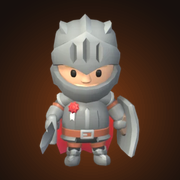
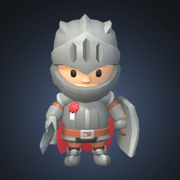
Build 2780c1a72e76

diff --git a/index.html b/index.html
@@ -1,4 +1,4 @@
-<!doctype html><html lang="en"><head><meta charset="utf-8"><meta name="viewport" content="width=device-width,initial-scale=1,viewport-fit=cover,maximum-scale=1,user-scalable=no"><meta name="apple-mobile-web-app-capable" content="yes"><meta name="mobile-web-app-capable" content="yes"><meta name="apple-mobile-web-app-status-bar-style" content="black-translucent"><meta name="apple-mobile-web-app-title" content="Hearthguard"><meta name="theme-color" content="#17100d"><meta name="robots" content="noindex"><link rel="manifest" href="manifest.webmanifest"><link rel="apple-touch-icon" href="icon-180.png"><style>:root{padding-top:env(safe-area-inset-top,0px);padding-bottom:env(safe-area-inset-bottom,0px)}body{margin:0}img{max-width:100%}[hidden]{display:none!important}</style></head><body><script>window.HG_CLOUD="https://hearthguard-cloud.shoguns-gate-family.workers.dev"</script><script>//---------------------------------------------------------------------
+<!doctype html><html lang="en"><head><meta charset="utf-8"><meta name="viewport" content="width=device-width,initial-scale=1,viewport-fit=cover,maximum-scale=1,user-scalable=no"><meta name="apple-mobile-web-app-capable" content="yes"><meta name="mobile-web-app-capable" content="yes"><meta name="apple-mobile-web-app-status-bar-style" content="black-translucent"><meta name="apple-mobile-web-app-title" content="Hearthguard"><meta name="theme-color" content="#14171b"><meta name="robots" content="noindex"><link rel="manifest" href="manifest.webmanifest"><link rel="apple-touch-icon" href="icon-180.png"><style>:root{padding-top:env(safe-area-inset-top,0px);padding-bottom:env(safe-area-inset-bottom,0px)}body{margin:0}img{max-width:100%}[hidden]{display:none!important}</style></head><body><script>window.HG_CLOUD="https://hearthguard-cloud.shoguns-gate-family.workers.dev"</script><script>//---------------------------------------------------------------------
 //
 // QR Code Generator for JavaScript
 //
@@ -2299,11 +2299,11 @@ var qrcode = function() {
 <meta name="claude:viewport-fit-sides" content="cover">
 <link rel="stylesheet" href="https://fonts.googleapis.com/css2?family=Grenze+Gotisch:wght@500;700&family=Nunito:wght@400;600;800&display=swap">
 <style>
-/* Layout: one-screen phone-first game column; a painted battle stage with rendered 3D characters on top, chunky wooden buttons below. Single dark fireside theme by choice. */
+/* Layout: one-screen phone-first game column; a painted battle stage with rendered 3D characters on top, chunky wooden buttons below. Single dark castle-stone theme by choice (slate greys, heraldic blue and gold). */
 :root{
   color-scheme:dark;
-  --night:#17100d; --wood:#2a1c16; --wood2:#3a281f; --line:#5a4032;
-  --parch:#f3e4c8; --dim:#b89f85; --ember:#ec8a3c; --gold:#f2c35b;
+  --night:#14171b; --wood:#252a30; --wood2:#333a43; --line:#5b6672;
+  --parch:#e9edf1; --dim:#9ba6b2; --ember:#ec8a3c; --gold:#e8c45e;
   --moss:#86b56a; --blood:#d6553f; --frost:#7fb7d9;
   --display:"Grenze Gotisch",Georgia,"Times New Roman",serif;
   --ui:"Nunito","Trebuchet MS",Verdana,sans-serif;
@@ -2311,10 +2311,10 @@ var qrcode = function() {
 html,body{height:100%}
 body{background:var(--night);color:var(--parch);font-family:var(--ui);font-size:16px;line-height:1.35;
   padding-left:max(16px,env(safe-area-inset-left,0px));padding-right:max(16px,env(safe-area-inset-right,0px));
-  background-image:radial-gradient(120% 60% at 50% 110%,#4a2412 0%,transparent 60%);background-attachment:fixed}
+  background-image:radial-gradient(120% 60% at 50% 110%,#2c3542 0%,transparent 60%);background-attachment:fixed}
 *{box-sizing:border-box;-webkit-tap-highlight-color:transparent;touch-action:manipulation}
 #app{max-width:540px;margin:0 auto;min-height:100%;display:flex;flex-direction:column;gap:12px;padding-block:12px 20px}
-h1{font-family:var(--display);font-weight:700;font-size:58px;line-height:.9;margin:0;color:var(--gold);text-shadow:0 3px 0 #6b3413;text-wrap:balance}
+h1{font-family:var(--display);font-weight:700;font-size:58px;line-height:.9;margin:0;color:var(--gold);text-shadow:0 3px 0 #3a3320;text-wrap:balance}
 h2{font-family:var(--display);font-weight:700;font-size:34px;line-height:1;margin:0;color:var(--gold)}
 h3{font-size:13px;letter-spacing:.12em;text-transform:uppercase;color:var(--dim);margin:0;font-weight:800}
 p{margin:0}
@@ -2323,36 +2323,37 @@ p{margin:0}
 .row{display:flex;align-items:center;gap:10px}
 .grow{flex:1;min-width:0}
 .col{display:flex;flex-direction:column;gap:10px}
-.panel{background:var(--wood);border:2px solid var(--line);border-radius:10px;padding:12px;box-shadow:0 3px 0 #0c0806}
+.panel{background:var(--wood);border:2px solid var(--line);border-radius:10px;padding:12px;box-shadow:0 3px 0 #08090b}
 button{font:inherit;color:var(--parch);background:var(--wood2);border:2px solid var(--line);border-bottom-width:5px;border-radius:10px;
   padding:10px 12px;cursor:pointer;text-align:center;min-height:48px;font-weight:800}
 button:active:not(:disabled){transform:translateY(3px);border-bottom-width:2px;margin-bottom:3px}
 button:focus-visible,input:focus-visible{outline:3px solid var(--gold);outline-offset:2px}
 button:disabled{opacity:.45;cursor:default}
-button.go{background:#8a3d17;border-color:#d0752f;color:#fff3dc}
+button.go{background:#2c5596;border-color:#6d9be0;color:#f2f6ff}
 button.ghost{background:none;border-bottom-width:2px;min-height:40px;padding:6px 10px;font-weight:600;font-size:14px}
 button .sub{display:block;font-weight:400;font-size:13px;color:var(--dim)}
-button.go .sub{color:#f6cfa6}
+button.go .sub{color:#c5d8f5}
 button.pow{grid-column:1/-1;background:linear-gradient(#f2c35b,#e08a2a);border-color:#fff0b0;color:#3a1c08;animation:glow 1s infinite alternate}
 button.pow .sub{color:#5a2c0c}
 @keyframes glow{from{box-shadow:0 0 4px #f2c35b}to{box-shadow:0 0 22px #ffd870}}
 .grid2{display:grid;grid-template-columns:1fr 1fr;gap:10px}
 .spr{width:96px;height:96px;flex:none;object-fit:contain}
 .spr.sm{width:56px;height:56px}
-.bar{height:12px;background:#0f0a08;border:2px solid var(--line);border-radius:99px;overflow:hidden}
+.bar{height:12px;background:#0c0e11;border:2px solid var(--line);border-radius:99px;overflow:hidden}
 .bar i{display:block;height:100%;background:var(--moss);transition:width .3s;border-radius:99px}
 .bar.xp i{background:var(--frost)} .bar.foe i{background:var(--blood)} .bar.raid i{background:var(--ember)}
 .bar.pw i{background:linear-gradient(90deg,#e08a2a,#ffd870)} .bar.pw.full{border-color:var(--gold);box-shadow:0 0 10px #f2c35b}
 .stat{display:flex;justify-content:space-between;gap:8px;font-variant-numeric:tabular-nums}
 .pips{display:flex;gap:4px}
-.pips b{width:14px;height:14px;border:2px solid var(--line);background:#0f0a08;border-radius:50%}
+.pips b{width:14px;height:14px;border:2px solid var(--line);background:#0c0e11;border-radius:50%}
 .pips b.on{background:var(--gold);border-color:#8a6a1e}
 .pips b.boss{border-color:var(--blood)} .pips b.boss.on{background:var(--blood)}
 .card{display:flex;gap:12px;align-items:center;text-align:left;width:100%}
 .locked{opacity:.5}
-input[type=text]{font:inherit;color:var(--parch);background:#0f0a08;border:2px solid var(--line);border-radius:10px;padding:10px;width:100%;min-height:48px}
+input[type=text]{font:inherit;color:var(--parch);background:#0c0e11;border:2px solid var(--line);border-radius:10px;padding:10px;width:100%;min-height:48px}
 .hero-stage{position:relative;height:190px;border:2px solid var(--line);border-radius:10px;overflow:hidden}
 .hero-stage img.h{position:absolute;left:50%;bottom:2%;height:92%;transform:translateX(-50%);z-index:1;filter:drop-shadow(0 6px 4px rgba(0,0,0,.45))}
+.hero-stage img.h.bob{left:0;right:0;margin:0 auto;transform:none}
 /* battle */
 .stage{position:relative;aspect-ratio:16/10;max-width:100%;border:2px solid var(--line);border-radius:10px;overflow:hidden}
 .scene{position:absolute;inset:0;width:100%;height:100%}
@@ -2362,7 +2363,7 @@ input[type=text]{font:inherit;color:var(--parch);background:#0f0a08;border:2px s
 .stage .tag{position:absolute;left:8px;right:8px;top:8px;display:flex;flex-direction:column;gap:4px;z-index:2;text-shadow:0 1px 3px #000,0 0 6px #000;font-weight:800}
 .flash{position:absolute;inset:0;z-index:4;background:radial-gradient(circle,#fff8d0,#f2c35b 60%,transparent);animation:flash .7s ease-out forwards;pointer-events:none}
 @keyframes flash{from{opacity:.95}to{opacity:0}}
-.shout{position:absolute;left:0;right:0;top:38%;text-align:center;z-index:5;font-family:var(--display);font-size:44px;color:#fff;text-shadow:0 3px 0 #8a3d17,0 0 14px #f2c35b;animation:shout 1s ease-out forwards;pointer-events:none}
+.shout{position:absolute;left:0;right:0;top:38%;text-align:center;z-index:5;font-family:var(--display);font-size:44px;color:#fff;text-shadow:0 3px 0 #2c3542,0 0 14px #e8c45e;animation:shout 1s ease-out forwards;pointer-events:none}
 @keyframes shout{from{transform:scale(.5);opacity:0}25%{transform:scale(1.15);opacity:1}70%{opacity:1}to{transform:scale(1);opacity:0}}
 .pop{position:absolute;z-index:3;font-weight:800;font-size:26px;color:#fff;text-shadow:0 2px 0 #000,0 0 6px #000;animation:pop .8s ease-out forwards;pointer-events:none}
 .pop.heal{color:#a8e88a} .pop.crit{color:var(--gold);font-size:36px}
@@ -2376,8 +2377,8 @@ input[type=text]{font:inherit;color:var(--parch);background:#0f0a08;border:2px s
 .acts{display:grid;grid-template-columns:1fr 1fr;gap:8px}
 .acts button.wide{grid-column:1/-1}
 .chips{display:flex;gap:6px;flex-wrap:wrap;min-height:22px}
-.chip{font-size:12px;padding:1px 8px;border-radius:99px;border:1px solid var(--line);background:#0f0a08;color:var(--gold)}
-#toast{position:fixed;left:50%;bottom:calc(24px + env(safe-area-inset-bottom,0px));transform:translateX(-50%);background:#0f0a08;border:2px solid var(--gold);
+.chip{font-size:12px;padding:1px 8px;border-radius:99px;border:1px solid var(--line);background:#0c0e11;color:var(--gold)}
+#toast{position:fixed;left:50%;bottom:calc(24px + env(safe-area-inset-bottom,0px));transform:translateX(-50%);background:#0c0e11;border:2px solid var(--gold);
   border-radius:10px;padding:10px 14px;max-width:min(90vw,460px);text-align:center;z-index:20;box-shadow:0 4px 0 #000}
 .aura{position:absolute;z-index:0;border-radius:50%;opacity:.6;pointer-events:none}
 .feat{font-size:14px;border-top:1px solid var(--line);padding-top:6px}
@@ -2448,7 +2449,7 @@ const SCENES=[
  {sky:['#6ea6de','#eaf5ff'],far:'#a4c0de',mid:'#d4e5f4',gnd:['#f4f9ff','#b0c8e0'],kind:'peaks'},
  {sky:['#2a0e0c','#d05a2a'],far:'#3a1c18',mid:'#241210',gnd:['#553026','#1e100e'],kind:'ash'},
  {sky:['#0e0b20','#4f2c72'],far:'#1e1838',mid:'#120f24',gnd:['#332c50','#141024'],kind:'spire'},
- {sky:['#24304a','#e0955a'],far:'#4a3a4a',mid:'#2a2430',gnd:['#5a4636','#2a1c16'],kind:'camp'}
+ {sky:['#18202e','#77879c'],far:'#465160',mid:'#262c36',gnd:['#5d6670','#2a2f36'],kind:'camp'}
 ];
 
 /* ============ HELPERS ============ */
@@ -2480,7 +2481,7 @@ function scene(i){ if(sceneCache[i])return sceneCache[i]; const shadows=i<6; con
   if(s.kind==='spire'){ m+=`<circle cx="36" cy="18" r="10" fill="#e8dcff" opacity=".9"/><circle cx="40" cy="15" r="9" fill="${s.sky[0]}" opacity=".85"/>`;
     for(let k=0;k<5;k++){const x=50+k*24+R()*8,h=22+R()*24,w=4+R()*3; m+=`<path d="M${x-w} 64 V${64-h} L${x} ${64-h-9} L${x+w} ${64-h} V64Z" fill="${s.mid}"/><rect x="${x-1}" y="${64-h+4}" width="2" height="3" fill="#b070ff"/>`}
     for(let k=0;k<20;k++)m+=`<circle cx="${R()*160}" cy="${R()*40}" r=".5" fill="#fff" opacity=".7"/>`; }
-  if(s.kind==='camp'){ for(let k=0;k<9;k++){const x=R()*160,h=20+R()*18,w=6+R()*4; m+=`<path d="M${x-w} 64 L${x} ${64-h} L${x+w} 64Z" fill="${s.mid}"/>`}
+  if(s.kind==='camp'){ m+=`<path d="M96 64 V34 h3 v-3 h3 v3 h3 v-3 h3 v3 h3 V44 h12 v-4 h3 v4 h3 v-4 h3 v4 h3 V28 h3 v-3 h3 v3 h3 v-3 h3 v3 h3 V64Z" fill="#39424e"/><rect x="103" y="40" width="2" height="4" fill="#e8c45e"/><rect x="140" y="35" width="2" height="4" fill="#e8c45e"/>`; for(let k=0;k<9;k++){const x=R()*160,h=20+R()*18,w=6+R()*4; m+=`<path d="M${x-w} 64 L${x} ${64-h} L${x+w} 64Z" fill="${s.mid}"/>`}
     for(let k=0;k<18;k++)m+=`<circle cx="${R()*160}" cy="${R()*30}" r=".5" fill="#fff" opacity=".8"/>`; m+=`<ellipse cx="80" cy="82" rx="46" ry="10" fill="#ffb040" opacity=".28"/>`; }
   return sceneCache[i]=`<svg class="scene" viewBox="0 0 160 100" preserveAspectRatio="xMidYMid slice" aria-hidden="true"><defs><linearGradient id="sk${i}" x1="0" y1="0" x2="0" y2="1"><stop offset="0" stop-color="${s.sky[0]}"/><stop offset="1" stop-color="${s.sky[1]}"/></linearGradient><linearGradient id="gd${i}" x1="0" y1="0" x2="0" y2="1"><stop offset="0" stop-color="${s.gnd[0]}"/><stop offset="1" stop-color="${s.gnd[1]}"/></linearGradient></defs>
     <rect width="160" height="66" fill="url(#sk${i})"/><path d="${far}" fill="${s.far}"/>${m}<rect y="63" width="160" height="37" fill="url(#gd${i})"/>${shadows?'<ellipse cx="38" cy="93" rx="22" ry="3.5" fill="#000" opacity=".28"/><ellipse cx="120" cy="92" rx="26" ry="4" fill="#000" opacity=".28"/>':''}</svg>`;
@@ -2812,15 +2813,15 @@ function keepInvite(k){
   try{document.cookie='hg-key='+k+'; path='+location.pathname+'; max-age=31536000; SameSite=Lax; Secure'}catch(e){}
   if(navigator.standalone||matchMedia('(display-mode: standalone)').matches)return;
   document.querySelectorAll('link[rel=manifest]').forEach(l=>l.remove());
-  const man={name:'Hearthguard',short_name:'Hearthguard',start_url:join,scope:base,display:'standalone',background_color:'#17100d',theme_color:'#17100d',
+  const man={name:'Hearthguard',short_name:'Hearthguard',start_url:join,scope:base,display:'standalone',background_color:'#14171b',theme_color:'#14171b',
     icons:[{src:base+'icon-180.png',sizes:'180x180',type:'image/png'},{src:base+'icon-512.png',sizes:'512x512',type:'image/png'}]};
   const l=document.createElement('link'); l.rel='manifest'; l.href='data:application/manifest+json,'+encodeURIComponent(JSON.stringify(man)); document.head.appendChild(l);
   if(lsGet('hg_tip_off'))return;
   const tip=document.createElement('div'); tip.setAttribute('role','status');
-  tip.style.cssText='position:fixed;left:12px;right:12px;bottom:calc(12px + env(safe-area-inset-bottom,0px));z-index:30;background:#2a1c16;color:#f3e4c8;border:2px solid #f2c35b;border-radius:10px;padding:12px 48px 12px 14px;box-shadow:0 6px 24px rgba(0,0,0,.5)';
+  tip.style.cssText='position:fixed;left:12px;right:12px;bottom:calc(12px + env(safe-area-inset-bottom,0px));z-index:30;background:#252a30;color:#e9edf1;border:2px solid #e8c45e;border-radius:10px;padding:12px 48px 12px 14px;box-shadow:0 6px 24px rgba(0,0,0,.5)';
   tip.textContent='Make it an app: tap Share, then Add to Home Screen, and always play from that icon.';
   const x=document.createElement('button'); x.textContent='✕'; x.setAttribute('aria-label','Close');
-  x.style.cssText='position:absolute;top:2px;right:2px;min-height:40px;width:40px;padding:0;background:none;border:0;color:#f3e4c8;font-size:18px';
+  x.style.cssText='position:absolute;top:2px;right:2px;min-height:40px;width:40px;padding:0;background:none;border:0;color:#e9edf1;font-size:18px';
   x.addEventListener('click',()=>{tip.remove();lsSet('hg_tip_off',1)}); tip.appendChild(x); document.body.appendChild(tip);
 }
 function boot(){ render(); connect(); const k=lsGet('hg_key'); if(window.HG_CLOUD&&k)keepInvite(k); }

diff --git a/sw.js b/sw.js
@@ -1,5 +1,5 @@
 // Hearthguard offline helper. VERSION changes with every build so updates arrive on their own.
-const VERSION = 'hg-32728281cf38';
+const VERSION = 'hg-2780c1a72e76';
 const CORE = ['./', 'index.html', 'manifest.webmanifest', 'icon-180.png', 'icon-512.png'];
 self.addEventListener('install', e => { e.waitUntil(caches.open(VERSION).then(c => c.addAll(CORE)).then(() => self.skipWaiting())); });
 self.addEventListener('activate', e => {
